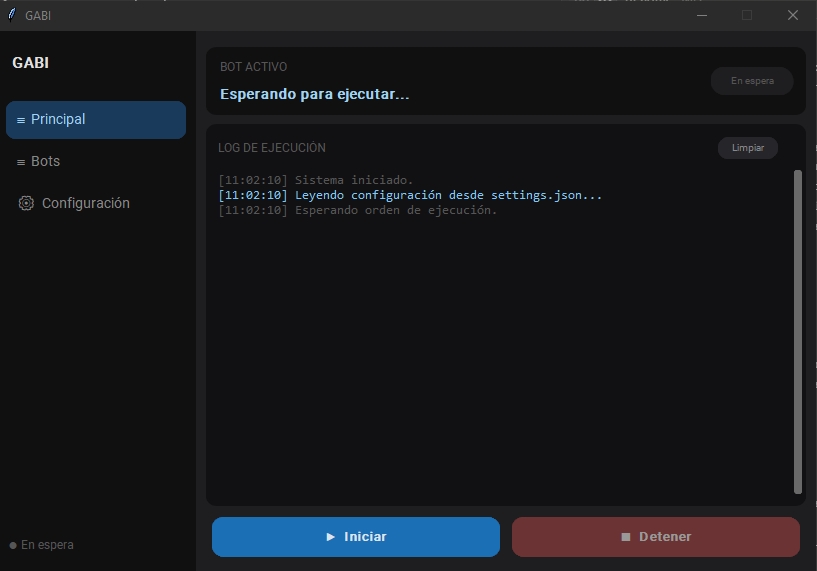
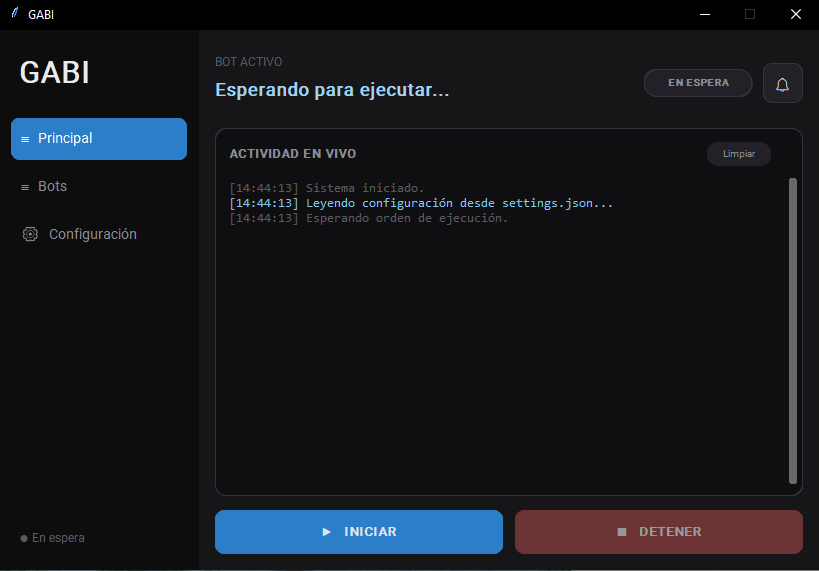
cambio boton notificacion

diff --git a/dev.py b/dev.py
@@ -1,0 +1,109 @@
+"""
+dev_runner.py — Solo para desarrollo.
+Reinicia la app automáticamente cada vez que guardás un archivo .py
+
+Uso:
+    python dev_runner.py
+
+No usar en producción. Para distribuir, usar main.py directamente.
+"""
+
+import subprocess
+import sys
+import time
+import os
+from watchdog.observers import Observer
+from watchdog.events import FileSystemEventHandler
+
+# ── Configuración ──────────────────────────────────────────────────────────────
+CARPETAS_A_MONITOREAR = ["ui", "core"]   # carpetas que watchdog observa
+ARCHIVO_MAIN = "main.py"                 # qué ejecutar al detectar cambio
+EXTENSION = ".py"                        # solo recargar ante cambios en .py
+COOLDOWN = 0.8  # segundos mínimos entre recargas (evita múltiples recargas seguidas)
+# ──────────────────────────────────────────────────────────────────────────────
+
+
+class ReloadHandler(FileSystemEventHandler):
+    """
+    Se ejecuta cuando watchdog detecta un cambio en el sistema de archivos.
+    Mata el proceso anterior y lanza uno nuevo.
+    """
+
+    def __init__(self):
+        self._proceso = None
+        self._ultimo_reload = 0
+        self._iniciar_app()
+
+    def _iniciar_app(self):
+        """Mata el proceso anterior (si existe) e inicia uno nuevo."""
+        if self._proceso and self._proceso.poll() is None:
+            self._proceso.terminate()
+            try:
+                self._proceso.wait(timeout=3)
+            except subprocess.TimeoutExpired:
+                self._proceso.kill()
+
+        print(f"\n{'─' * 50}")
+        print(f"  Iniciando {ARCHIVO_MAIN}...")
+        print(f"{'─' * 50}\n")
+
+        # Lanzamos main.py con el mismo intérprete de Python que está corriendo
+        self._proceso = subprocess.Popen(
+            [sys.executable, ARCHIVO_MAIN],
+            cwd=os.getcwd(),
+        )
+
+    def on_modified(self, event):
+        """Se llama cada vez que se modifica un archivo."""
+
+        # Ignorar carpetas y archivos que no sean .py
+        if event.is_directory:
+            return
+        if not event.src_path.endswith(EXTENSION):
+            return
+
+        # Cooldown: evitar múltiples recargas si el editor guarda varias veces
+        ahora = time.time()
+        if ahora - self._ultimo_reload < COOLDOWN:
+            return
+        self._ultimo_reload = ahora
+
+        archivo = os.path.relpath(event.src_path)
+        print(f"  Cambio detectado: {archivo} → recargando...")
+        self._iniciar_app()
+
+
+def main():
+    handler = ReloadHandler()
+    observer = Observer()
+    print("HOLA")
+    # Registrar las carpetas a monitorear
+    for carpeta in CARPETAS_A_MONITOREAR:
+        if os.path.exists(carpeta):
+            observer.schedule(handler, path=carpeta, recursive=True)
+        else:
+            print(f"  Advertencia: carpeta '{carpeta}' no encontrada, ignorada.")
+
+    # Monitorear también main.py directamente
+    observer.schedule(handler, path=".", recursive=False)
+
+    observer.start()
+    print(f"  Modo desarrollo activo.")
+    print(f"  Monitoreando: {', '.join(CARPETAS_A_MONITOREAR)}")
+    print(f"  Guardá cualquier .py para recargar la app.")
+    print(f"  Ctrl+C para salir.\n")
+
+    try:
+        while True:
+            time.sleep(1)
+    except KeyboardInterrupt:
+        print("\n  Deteniendo dev runner...")
+        observer.stop()
+        if handler._proceso and handler._proceso.poll() is None:
+            handler._proceso.terminate()
+
+    observer.join()
+
+
+if __name__ == "__main__":
+    main()

diff --git a/ui/main_window.py b/ui/main_window.py
@@ -3,6 +3,7 @@ import customtkinter as ctk
 from ui.panels.panel_main   import PanelMain
 from ui.panels.panel_bots   import PanelBots
 from ui.panels.panel_config import PanelConfig
+from config.almacenamiento import leer_config_global
 
 # ─── Paleta de colores ──
 # Definimos los colores acá para que todos los paneles puedan importarlos
@@ -71,7 +72,12 @@ class MainWindow(ctk.CTk):
 
         # Se muestra el panel principal al arrancar
         self._show_panel("main")
+        self.actualizar_estado_notificador()
+        
 
+    """self._notif_win = ConfigNotificadorWindow(
+        self, COLORS, self.actualizar_estado_notificador
+    )"""
 
 
 
@@ -266,11 +272,16 @@ class MainWindow(ctk.CTk):
         La invoca el botón de campana presente en el header de los paneles.
         """
         from ui.config_window import ConfigNotificadorWindow
-        # Evitamos abrir dos veces si ya está abierta
+
         if getattr(self, "_notif_win", None) is not None and self._notif_win.winfo_exists():
             self._notif_win.focus()
             return
-        self._notif_win = ConfigNotificadorWindow(self, COLORS)
+
+        self._notif_win = ConfigNotificadorWindow(
+            self,
+            COLORS,
+            self.actualizar_estado_notificador
+    )
 
     def center_window(self):
         """Centra la ventana en la pantalla antes de mostrarla."""
@@ -280,3 +291,26 @@ class MainWindow(ctk.CTk):
         x = 20
         y = ((screen_h - self.HEIGHT) // 2) + 20
         self.geometry(f"{self.WIDTH}x{self.HEIGHT}+{x}+{y}")
+        
+        
+    """notificador"""
+    def actualizar_estado_notificador(self):
+        """
+        Actualiza visualmente el botón de campana según
+        el estado de notif_mail guardado en settings.json.
+        """
+        config = leer_config_global()
+        notif_activo = bool(
+            config.get("smtp", {}).get("notif_mail", False)
+        )
+
+        boton = self._panels["main"].boton_campana
+
+        if notif_activo:
+            boton.configure(
+                fg_color=COLORS["accent"]
+            )
+        else:
+            boton.configure(
+                fg_color=COLORS["bg_card"]
+            )

diff --git a/ui/config_window.py b/ui/config_window.py
@@ -21,13 +21,14 @@ from config.almacenamiento import leer_config_global, guardar_config_global
 
 class ConfigNotificadorWindow(ctk.CTkToplevel):
 
-    def __init__(self, parent, colors: dict):
+    def __init__(self, parent, colors: dict, on_change):
         super().__init__(parent)
 
         self.colors = colors
+        self.on_change = on_change
 
         self.title("Configuración del notificador")
-        self.geometry("460x440")
+        self.geometry("440x460")
         self.resizable(False, False)
         self.configure(fg_color=colors["bg_app"])
         self.transient(parent)
@@ -37,6 +38,7 @@ class ConfigNotificadorWindow(ctk.CTkToplevel):
         self.after(10, self._centrar_sobre_padre, parent)
 
         self._entries = {}
+        self._notif_var = ctk.BooleanVar(value=False) 
         self._build()
         self._cargar()
 
@@ -85,7 +87,6 @@ class ConfigNotificadorWindow(ctk.CTkToplevel):
             anchor="w",
         ).grid(row=0, column=0, sticky="w")
 
-        self._notif_var = ctk.BooleanVar(value=False)
         ctk.CTkSwitch(
             fila_toggle,
             text="",
@@ -157,6 +158,7 @@ class ConfigNotificadorWindow(ctk.CTkToplevel):
         config["smtp"]["notif_mail"] = self._notif_var.get()
 
         if guardar_config_global(config):
+            self.on_change()
             self.destroy()
         else:
             messagebox.showerror(

diff --git a/ui/panels/panel_main.py b/ui/panels/panel_main.py
@@ -64,8 +64,8 @@ class PanelMain(ctk.CTkFrame):
             text="EN ESPERA",
             font=ctk.CTkFont(size=10, weight="bold"),      
             fg_color=self.colors["bg_card"],
-            border_color=self.colors["border"],
-            border_width=1,
+            #border_color=self.colors["border"],
+            #border_width=1,
             text_color=self.colors["text_muted"],
             corner_radius=14,
             padx=10,
@@ -83,9 +83,10 @@ class PanelMain(ctk.CTkFrame):
         self.script_name_label.grid(row=1, column=0, sticky="w", pady=(0, 14))
 
         # Botón de campana a la derecha de toda la barra
-        boton_campana(
+        self.boton_campana = boton_campana(
             contenedor, self.colors, self.main_window.abrir_config_notificador
-        ).grid(row=0, column=2, padx=(10, 0))
+        )
+        self.boton_campana.grid(row=0, column=2, padx=(10, 0))
 
     def _build_log_area(self):
         """
@@ -281,8 +282,8 @@ class PanelMain(ctk.CTkFrame):
         """
         self.after(0, lambda: self._set_running_state(False))
         self.after(0, lambda: self._log("Ejecución finalizada.", "ok"))
- 
- 
+    
+   
 
 
     """Estado visual"""

diff --git a/ui/components.py b/ui/components.py
@@ -10,9 +10,10 @@ import customtkinter as ctk
 
 def boton_campana(parent, colors: dict, command):
     """
-    Botón de campana (🔔) para abrir la configuración del notificador.
+    Botón de campana para abrir la configuración del notificador.
     Se ubica en el header de los paneles, alineado a la derecha.
     """
+    
     return ctk.CTkButton(
         parent,
         text="🔔",
@@ -21,7 +22,6 @@ def boton_campana(parent, colors: dict, command):
         corner_radius=10,
         font=ctk.CTkFont(size=16),
         fg_color=colors["bg_card"],
-        hover_color=colors["border"],
         text_color=colors["text_primary"],
         border_width=1,
         border_color=colors["border"],
